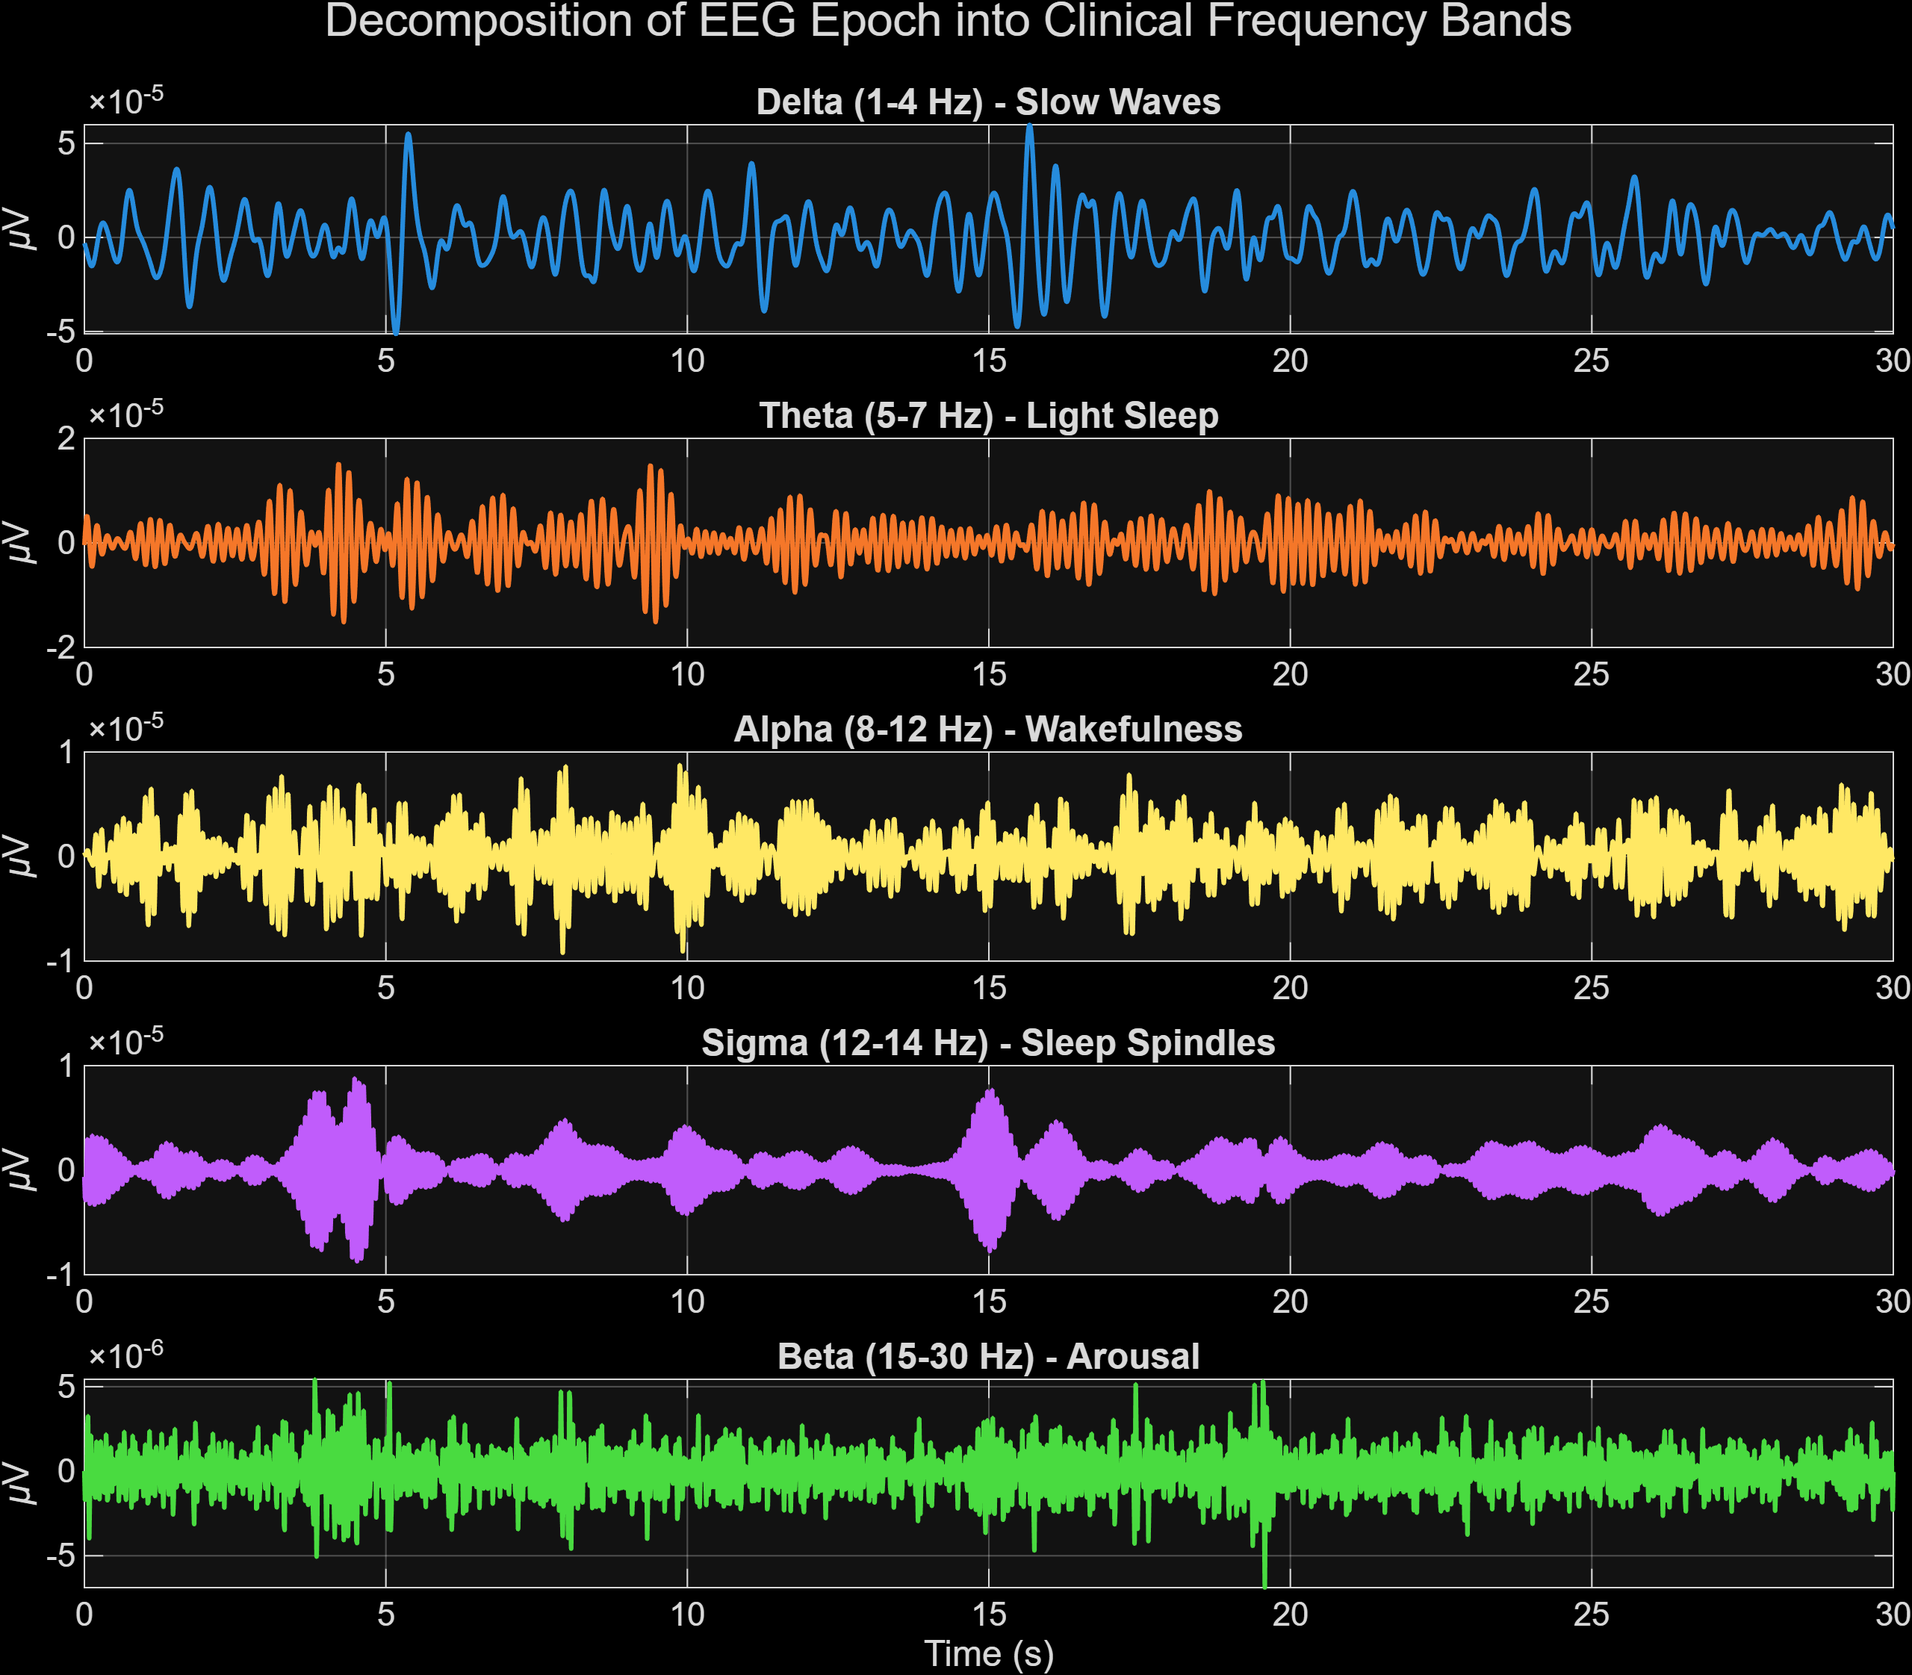
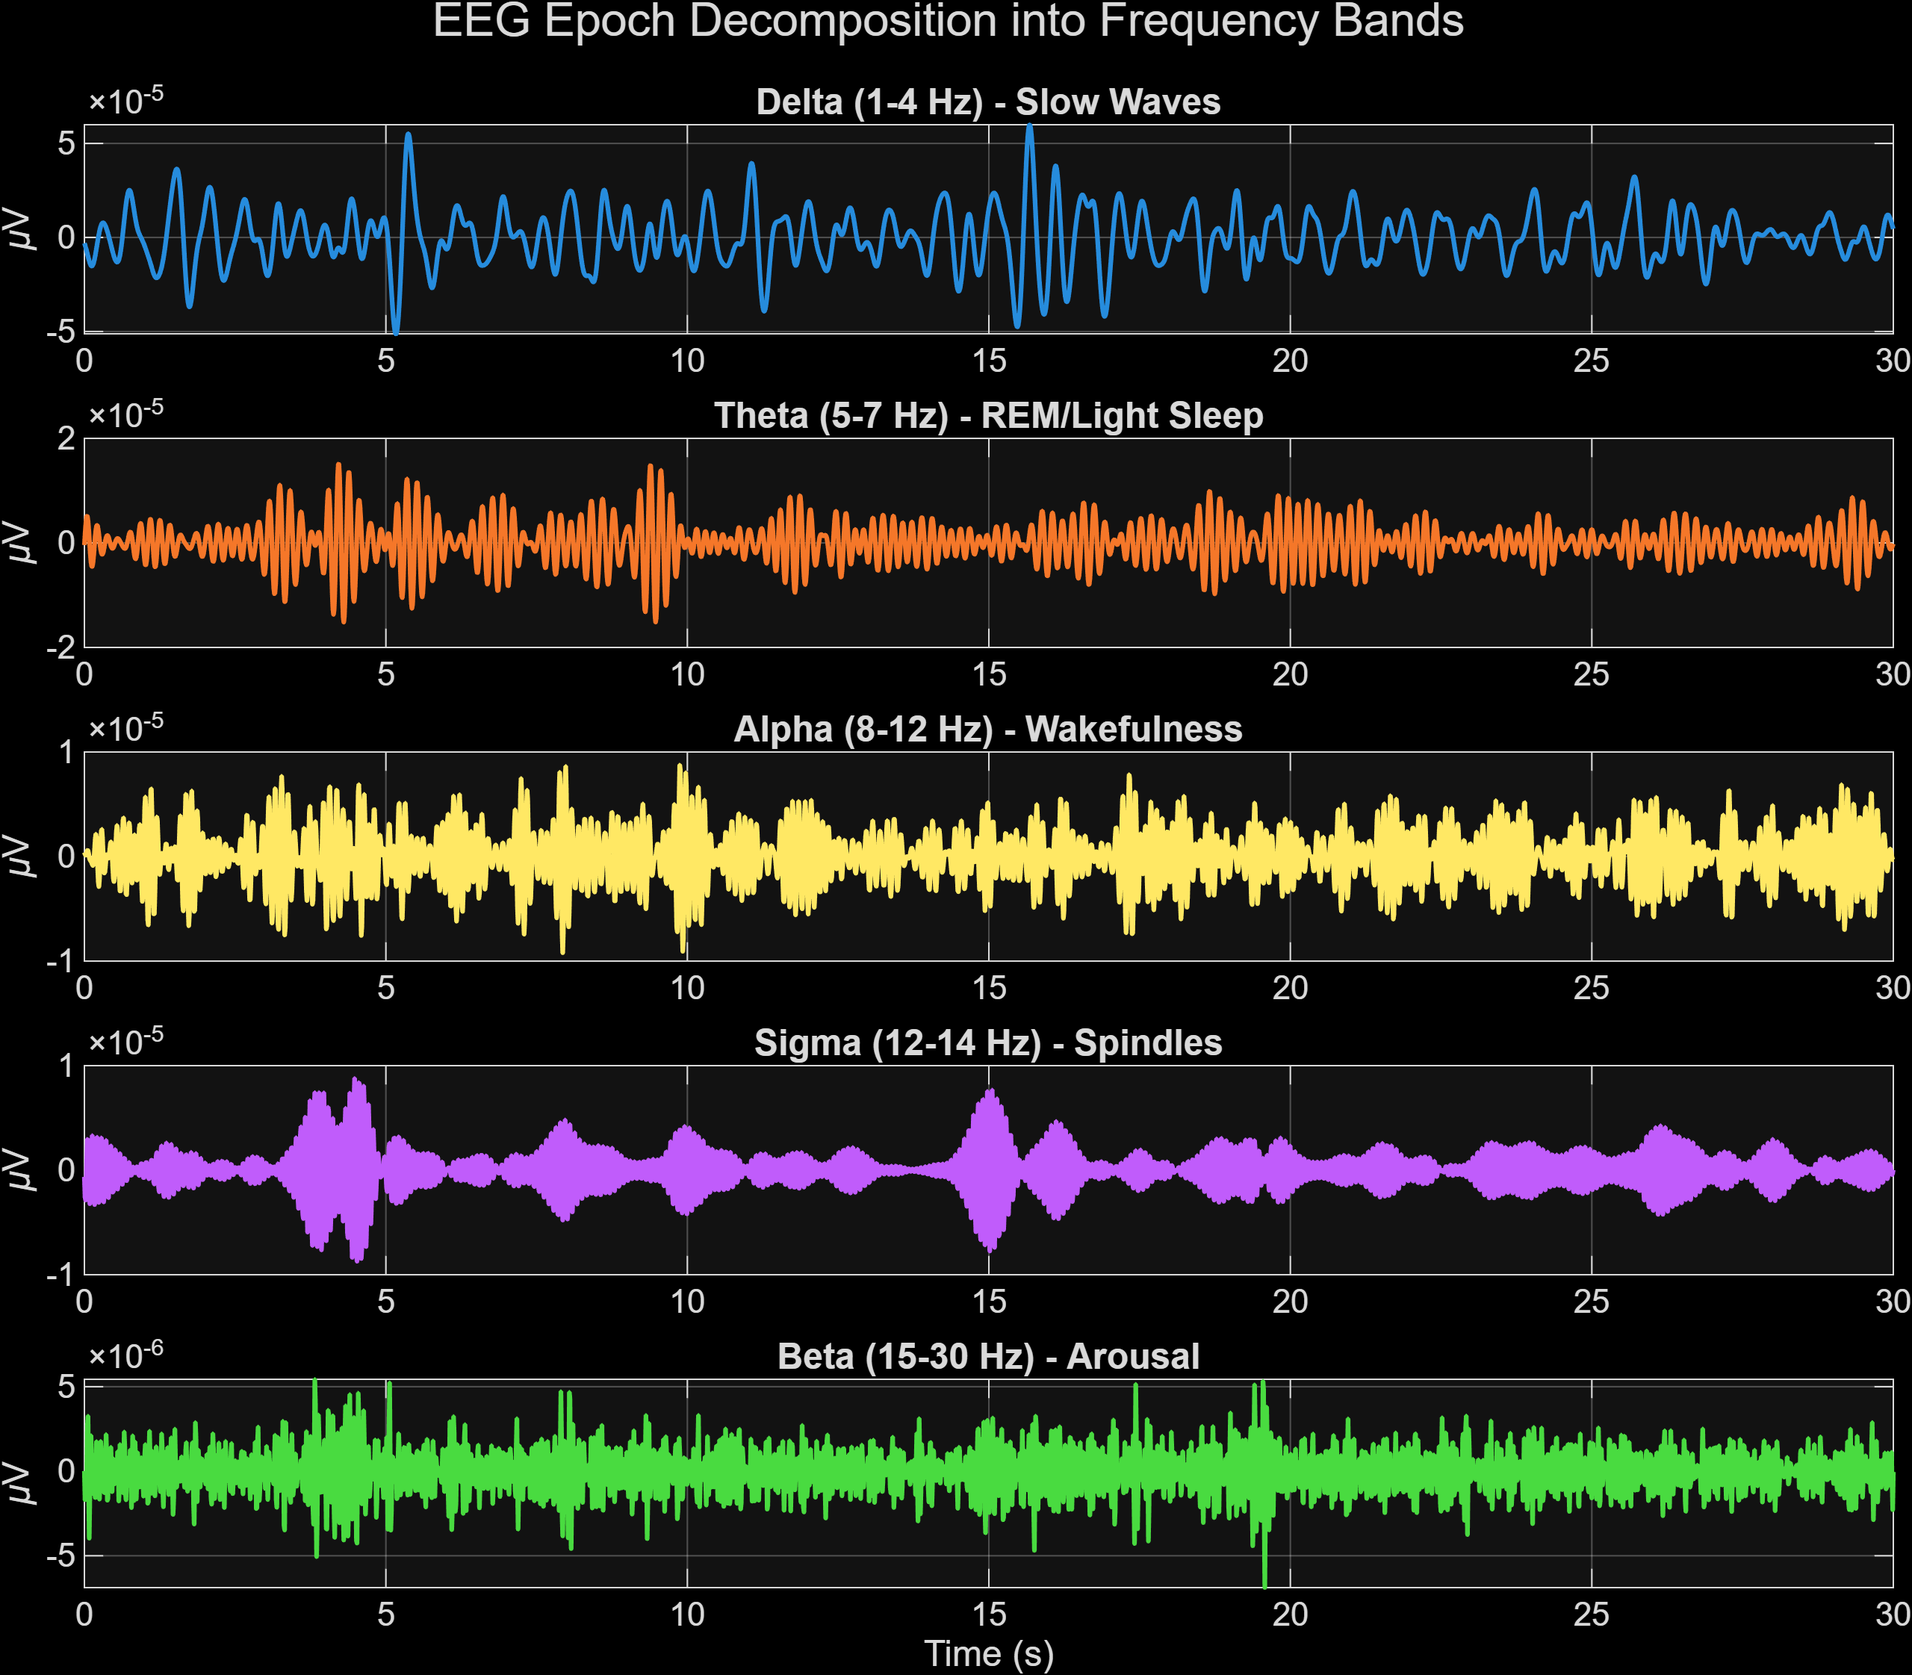
V 1.4 Updated code based on only signal features. ML related codes have been removed.

Changed region(s): [[0.1562, 0.0, 0.8125, 0.0312], [0.375, 0.593, 0.6562, 0.6554], [0.375, 0.2185, 0.6562, 0.2809]]

diff --git a/main2.m b/main2.m
@@ -1,0 +1,215 @@
+% =========================================================================
+% SLEEP STAGE CLASSIFICATION (UNSUPERVISED EDITION)
+% Based on Huang et al. (2014) & Dement et al. (1957)
+% Author : Mohammadreza Iravani
+% =========================================================================
+
+% 1. Load and Extract Data
+fprintf('Loading data.mat...\n');
+load('data.mat', 'dati');   
+fs = dati.fs;               
+raw_eeg = dati.eeg;         
+
+% 2. Epoching (30-second windows)
+epoch_len = 30 * fs;        
+num_epochs = floor(length(raw_eeg) / epoch_len);
+eeg_epochs = reshape(raw_eeg(1:num_epochs*epoch_len), epoch_len, num_epochs)';
+
+% 3. Feature Extraction (Based on Huang 2014 rules)
+num_features = 13;
+X = zeros(num_epochs, num_features);
+
+fprintf('Extracting 13 frequency-domain features for %d epochs...\n', num_epochs);
+for i = 1:num_epochs
+    X(i, :) = extract_huang_single_channel(eeg_epochs(i, :), fs);
+end
+
+% 4. Standardization
+mu = mean(X, 1);
+sigma = std(X, 0, 1);
+sigma(sigma == 0) = 1; 
+X_scaled = (X - mu) ./ sigma;
+
+% 5. Unsupervised Classification (K-Means Clustering)
+fprintf('Performing K-Means clustering (K=3: Wake, NREM, REM)...\n');
+rng(42); % For reproducibility
+num_clusters = 3;
+[cluster_idx, cluster_centers] = kmeans(X_scaled, num_clusters, 'Replicates', 10);
+
+% 6. Knowledge-Based Centroid Mapping
+% Feature Index mapping from extract_huang_single_channel:
+% 1,2: Lower Delta | 3,4: Delta | 5,6: Theta | 7,8: Alpha | 9,10: Sigma | 11,12: Beta | 13: Gamma
+delta_power = mean(cluster_centers(:, 1:4), 2);
+alpha_beta_power = mean(cluster_centers(:, [7, 8, 11, 12, 13]), 2);
+
+% Identify Wake cluster: Highest Alpha/Beta/Gamma
+[~, wake_cluster] = max(alpha_beta_power);
+
+% Out of the remaining two, identify NREM (Highest Delta) and REM
+remaining_clusters = setdiff(1:3, wake_cluster);
+if delta_power(remaining_clusters(1)) > delta_power(remaining_clusters(2))
+    nrem_cluster = remaining_clusters(1);
+    rem_cluster = remaining_clusters(2);
+else
+    nrem_cluster = remaining_clusters(2);
+    rem_cluster = remaining_clusters(1);
+end
+
+% Map clusters to numeric stages for plotting (1: NREM, 2: REM, 3: W)
+numeric_stages = zeros(num_epochs, 1);
+predicted_labels = cell(num_epochs, 1);
+for i = 1:num_epochs
+    if cluster_idx(i) == wake_cluster
+        numeric_stages(i) = 3;
+        predicted_labels{i} = 'W';
+    elseif cluster_idx(i) == rem_cluster
+        numeric_stages(i) = 2;
+        predicted_labels{i} = 'REM';
+    else
+        numeric_stages(i) = 1;
+        predicted_labels{i} = 'NREM';
+    end
+end
+
+% =========================================================================
+% PRESENTATION VISUALIZATIONS
+% =========================================================================
+set(0, 'DefaultAxesFontSize', 12, 'DefaultLineLineWidth', 1.5);
+time_hrs = (1:num_epochs) * 30 / 3600; 
+
+% FIGURE 1: Raw vs Preprocessed Signal
+fig1 = figure('Name', 'Fig 1: Signal Preprocessing', 'Position', [50, 100, 1000, 500]);
+sample_epoch = eeg_epochs(40, :); 
+[b, a] = butter(4, [0.5, 49] / (fs / 2), 'bandpass');
+filtered_epoch = filtfilt(b, a, sample_epoch);
+t_axis = linspace(0, 30, epoch_len);
+
+subplot(2,1,1);
+plot(t_axis, sample_epoch, 'Color', [0.6 0.6 0.6]);
+title('Raw 30-Second Forehead EEG Epoch');
+xlabel('Time (s)'); ylabel('Amplitude (\muV)'); grid on;
+
+subplot(2,1,2);
+plot(t_axis, filtered_epoch, 'Color', [0 0.4470 0.7410]);
+title('Bandpass Filtered (0.5 - 49 Hz)');
+xlabel('Time (s)'); ylabel('Amplitude (\muV)'); grid on;
+
+% FIGURE 2: Clinical Rhythm Decomposition
+fig2 = figure('Name', 'Fig 2: Rhythm Decomposition', 'Position', [100, 100, 1000, 800]);
+bands = {[1 4], [5 7], [8 12], [12 14], [15 30]};
+band_names = {'Delta (1-4 Hz) - Slow Waves', 'Theta (5-7 Hz) - REM/Light Sleep', ...
+              'Alpha (8-12 Hz) - Wakefulness', 'Sigma (12-14 Hz) - Spindles', ...
+              'Beta (15-30 Hz) - Arousal'};
+colors = lines(5);
+for k = 1:5
+    [b_band, a_band] = butter(2, bands{k} / (fs / 2), 'bandpass');
+    band_sig = filtfilt(b_band, a_band, filtered_epoch);
+    subplot(5, 1, k);
+    plot(t_axis, band_sig, 'Color', colors(k,:));
+    title(band_names{k});
+    ylabel('\muV'); 
+    if k == 5; xlabel('Time (s)'); end
+    grid on;
+end
+sgtitle('EEG Epoch Decomposition into Frequency Bands');
+
+% FIGURE 3: Short-Time Fourier Transform (STFT)
+fig3 = figure('Name', 'Fig 3: STFT', 'Position', [150, 150, 800, 400]);
+window = hamming(fs); noverlap = fs / 2; nfft = fs;
+[S, F, T, P] = spectrogram(filtered_epoch, window, noverlap, nfft, fs);
+surf(T, F, 10*log10(P), 'EdgeColor', 'none');
+axis xy; axis tight; colormap(jet); view(0,90);
+c = colorbar; c.Label.String = 'Power (dB/Hz)';
+title('STFT: Power Spectral Density');
+xlabel('Time (s)'); ylabel('Frequency (Hz)'); ylim([0 40]); 
+
+% FIGURE 4: Feature Space Separability (PCA & K-Means Clusters)
+fig4 = figure('Name', 'Fig 4: PCA Clustering', 'Position', [200, 200, 800, 600]);
+[~, score, ~] = pca(X_scaled);
+gscatter(score(:,1), score(:,2), predicted_labels, 'rgb', '...', 20);
+title('PCA: Unsupervised Sleep Stage Clustering (K-Means)');
+xlabel('Principal Component 1'); ylabel('Principal Component 2');
+legend('Location', 'best'); grid on;
+
+% FIGURE 5: Full Night Hypnogram
+fig5 = figure('Name', 'Fig 5: Full Hypnogram', 'Position', [250, 250, 1000, 400]);
+stairs(time_hrs, numeric_stages, 'LineWidth', 1.5, 'Color', [0.0 0.3 0.6]); 
+set(gca, 'YTick', 1:3, 'YTickLabel', {'NREM', 'REM', 'Wake'});
+ylim([0.5 3.5]); xlim([0 max(time_hrs)]);
+title('Automated Hypnogram via Unsupervised Clustering');
+xlabel('Time in Bed (Hours)'); grid on;
+
+% FIGURE 6: Zoomed Hypnogram 
+fig6 = figure('Name', 'Fig 6: Zoomed Hypnogram', 'Position', [300, 300, 800, 400]);
+stairs(time_hrs, numeric_stages, 'LineWidth', 2.0, 'Color', [0.8500 0.3250 0.0980]);
+set(gca, 'YTick', 1:3, 'YTickLabel', {'NREM', 'REM', 'Wake'});
+ylim([0.5 3.5]); xlim([0 2.0]); 
+title('Hypnogram Detail (0 to 120 Mins)');
+xlabel('Time in Bed (Hours)'); grid on;
+
+% =========================================================================
+% FIGURE EXPORT TO PNG
+% =========================================================================
+fprintf('Saving high-resolution figures to current folder...\n');
+pause(1); 
+exportgraphics(fig1, 'Fig1_Preprocessing.png', 'Resolution', 300);
+exportgraphics(fig2, 'Fig2_RhythmDecomposition.png', 'Resolution', 300);
+exportgraphics(fig3, 'Fig3_STFT_Spectrogram.png', 'Resolution', 300);
+exportgraphics(fig4, 'Fig4_PCA_Clustering.png', 'Resolution', 300);
+exportgraphics(fig5, 'Fig5_FullHypnogram.png', 'Resolution', 300);
+exportgraphics(fig6, 'Fig6_ZoomedHypnogram.png', 'Resolution', 300);
+fprintf('All images saved successfully as PNGs!\n');
+
+% =========================================================================
+% LOCAL FUNCTIONS
+% =========================================================================
+function features = extract_huang_single_channel(epoch_data, fs)
+    [b, a] = butter(4, [0.5, 49] / (fs / 2), 'bandpass');
+    filtered_sig = filtfilt(b, a, epoch_data);
+    
+    window = hamming(fs); noverlap = fs / 2; nfft = fs; 
+    [S, F, ~] = spectrogram(filtered_sig, window, noverlap, nfft, fs);
+    Sxx = abs(S).^2;
+    Sxx_norm = Sxx ./ sum(Sxx, 1);
+    
+    b_ldelta = (F >= 0.5 & F <= 2);
+    b_delta  = (F >= 1   & F <= 4);
+    b_theta  = (F >= 5   & F <= 7);
+    b_alpha  = (F >= 8   & F <= 12);
+    b_sigma  = (F >= 12  & F <= 14);
+    b_beta   = (F >= 15  & F <= 30);
+    b_gamma  = (F >= 30  & F <= 49); 
+    
+    p_ldelta = sum(Sxx_norm(b_ldelta, :), 1);
+    p_delta  = sum(Sxx_norm(b_delta, :), 1);
+    p_theta  = sum(Sxx_norm(b_theta, :), 1);
+    p_alpha  = sum(Sxx_norm(b_alpha, :), 1);
+    p_sigma  = sum(Sxx_norm(b_sigma, :), 1);
+    p_beta   = sum(Sxx_norm(b_beta, :), 1);
+    p_gamma  = sum(Sxx_norm(b_gamma, :), 1);
+    
+    num_seg = 59;
+    top_80 = floor(0.8 * num_seg); 
+    top_50 = floor(0.5 * num_seg); 
+    
+    p_ldelta_sort = sort(p_ldelta);
+    p_theta_sort  = sort(p_theta);
+    p_alpha_sort  = sort(p_alpha);
+    p_beta_sort   = sort(p_beta);
+    
+    features = [
+        mean(p_ldelta_sort(end-top_80+1:end)),
+        mean(p_ldelta_sort(1:top_80)),
+        max(p_delta),
+        (sum(p_delta) - max(p_delta)) / (num_seg - 1),
+        mean(p_theta_sort(end-top_50+1:end)),
+        mean(p_theta_sort(1:top_50)),
+        mean(p_alpha_sort(end-top_50+1:end)),
+        mean(p_alpha_sort(1:top_50)),
+        max(p_sigma),
+        (sum(p_sigma) - max(p_sigma)) / (num_seg - 1),
+        mean(p_beta_sort(end-top_50+1:end)),
+        mean(p_beta_sort(1:top_50)),
+        mean(p_gamma)
+    ];
+end

diff --git a/main3.m b/main3.m
@@ -1,0 +1,149 @@
+clearvars; close all; clc;
+
+%% 1. Load and Preprocess Data
+fprintf('Loading data.mat...\n');
+load('data.mat', 'dati');   
+Fs = dati.fs;               
+EEG = dati.eeg; 
+
+% Store a copy of the raw signal for plotting
+EEG_raw = EEG;
+
+% Detrend the signal to remove DC offset
+EEG = detrend(EEG);
+
+% --- Design and Apply Bandpass Filter (0.5 to 30 Hz) ---
+low_cutoff = 0.5;
+high_cutoff = 30;
+bp_filter = designfilt('bandpassiir', 'FilterOrder', 4, ...
+    'HalfPowerFrequency1', low_cutoff, 'HalfPowerFrequency2', high_cutoff, ...
+    'DesignMethod', 'butter', 'SampleRate', Fs);
+EEG = filtfilt(bp_filter, EEG);
+
+%% 2. Feature Extraction (Based on Huang et al., 2014 via STFT)
+% Standard AASM epoch size
+window_length = Fs * 30;              
+shift = window_length; 
+
+% STFT parameters defined in the paper: 
+% 1-second Hamming window overlapped with 0.5 seconds
+segment_length = Fs * 1;    
+noverlap = Fs * 0.5;        
+nfft = 2048;                
+
+N = length(EEG);
+i = 1;  
+counter = 1;
+
+while (i + window_length - 1) < N
+    EEG_epoch = detrend(EEG(i:i+window_length-1));
+    
+    % Compute Short-Time Fourier Transform (STFT) for the 30s epoch
+    % This generates 59 segments per epoch as described in the paper
+    [PSD_matrix, f] = spectrogram(EEG_epoch, hamming(segment_length), noverlap, nfft, Fs, 'yaxis');
+    
+    % Convert to absolute Power Spectral Density (PSD)
+    PSD_matrix = abs(PSD_matrix).^2;
+    
+    % Normalization: Divide each frequency bin by the total sum in its segment
+    total_power_per_segment = sum(PSD_matrix, 1);
+    Normalized_PSD = bsxfun(@rdivide, PSD_matrix, total_power_per_segment);
+    
+    % Exact frequency bands according to AASM and Huang et al., 2014
+    sw_idx    = (f >= 0.5 & f <= 2);  % Slow Wave Activity for N3
+    theta_idx = (f >= 5   & f <= 7);  % Theta Rhythm for N1/N2 background
+    alpha_idx = (f >= 8   & f <= 12); % Alpha Rhythm for Wake
+    sigma_idx = (f >= 12  & f <= 14); % Sleep Spindle for N2
+    
+    % Calculate relative power in specific bands across the 59 segments
+    SW_Power_Segments    = sum(Normalized_PSD(sw_idx, :), 1);
+    Theta_Power_Segments = sum(Normalized_PSD(theta_idx, :), 1);
+    Alpha_Power_Segments = sum(Normalized_PSD(alpha_idx, :), 1);
+    Sigma_Power_Segments = sum(Normalized_PSD(sigma_idx, :), 1);
+    
+    % Epoch Features: Capturing temporal properties of manual scoring rules
+    SlowWave_Power(counter) = mean(SW_Power_Segments);
+    Theta_Power(counter)    = mean(Theta_Power_Segments);
+    Alpha_Power(counter)    = mean(Alpha_Power_Segments);
+    % Since spindles occur suddenly (0.5 - 1.5s), maximum power among 59 segments is extracted
+    Sigma_Power(counter)    = max(Sigma_Power_Segments); 
+    
+    time_min(counter) = (i + window_length/2) / (Fs * 60);
+    i = i + shift;
+    counter = counter + 1;
+end
+
+%% 3. Threshold-Based Stage Detection (Translating AASM Rules)
+Detected_Stage = strings(1, length(time_min));
+
+% Adaptive thresholds based on subject's overall physiological baseline
+thresh_alpha = mean(Alpha_Power) + std(Alpha_Power);
+thresh_sw    = mean(SlowWave_Power) + 0.5 * std(SlowWave_Power);
+thresh_sigma = mean(Sigma_Power) + std(Sigma_Power);
+
+for k = 1:length(time_min)
+    % AASM Rule: >50% alpha rhythm -> Wake
+    if Alpha_Power(k) > thresh_alpha
+        Detected_Stage(k) = "Wake";
+        
+    % AASM Rule: >20% high amplitude slow wave -> N3
+    elseif SlowWave_Power(k) > thresh_sw
+        Detected_Stage(k) = "N3";
+        
+    % AASM Rule: Sleep spindle (12-14Hz) occurrence -> N2
+    elseif Sigma_Power(k) > thresh_sigma
+        Detected_Stage(k) = "N2";
+        
+    % AASM Rule: Alpha is attenuated and replaced by Theta -> N1 / REM
+    else
+        Detected_Stage(k) = "N1 / REM";
+    end
+end
+
+%% 4. Generate and Save Presentation Figures
+fprintf('Generating and saving figures...\n');
+
+% --- Figure 1: Raw vs Filtered Signal ---
+fig1 = figure('Name', 'Preprocessing', 'NumberTitle', 'off');
+t_30s = (0:window_length-1) / Fs;
+subplot(2,1,1); plot(t_30s, EEG_raw(1:window_length), 'Color', [0.6 0.6 0.6]);
+title('Raw EEG Signal (First 30 Seconds Epoch)'); ylabel('Amplitude'); xlabel('Time [s]'); grid on;
+subplot(2,1,2); plot(t_30s, EEG(1:window_length), 'Color', 'b');
+title('Filtered EEG Signal (0.5 - 30 Hz Bandpass)'); ylabel('Amplitude'); xlabel('Time [s]'); grid on;
+% Save Figure 1
+saveas(fig1, 'FigX_1_1.png');
+
+% --- Figure 2: STFT Spectrogram ---
+fig2 = figure('Name', 'Spectrogram', 'NumberTitle', 'off');
+spectrogram(EEG, hamming(segment_length), noverlap, nfft, Fs, 'yaxis');
+ylim([0 30]); title('STFT Spectrogram (Frequency Content Over Time)'); colormap jet;
+% Save Figure 2
+saveas(fig2, 'FigX_1_2.png');
+
+% --- Figure 3: Extracted Features Based on Huang et al. 2014 ---
+fig3 = figure('Name', 'Extracted Features', 'NumberTitle', 'off');
+ax(1) = subplot(4,1,1); plot(time_min, SlowWave_Power, 'LineWidth', 1.5); ylabel('Slow Wave'); title('N3 Indicator (0.5 - 2 Hz)'); grid on;
+ax(2) = subplot(4,1,2); plot(time_min, Alpha_Power, 'LineWidth', 1.5); ylabel('Alpha'); title('Wake Indicator (8 - 12 Hz)'); grid on;
+ax(3) = subplot(4,1,3); plot(time_min, Sigma_Power, 'LineWidth', 1.5); ylabel('Sigma'); title('N2 Indicator (12 - 14 Hz)'); grid on;
+ax(4) = subplot(4,1,4); plot(time_min, Theta_Power, 'LineWidth', 1.5, 'Color', 'r'); xlabel('Time [minutes]'); ylabel('Theta'); title('N1 Background (5 - 7 Hz)'); grid on;
+linkaxes(ax, 'x');
+% Save Figure 3
+saveas(fig3, 'FigX_1_3.png');
+
+% --- Figure 4: Hypnogram (Output) ---
+fig4 = figure('Name', 'Hypnogram', 'NumberTitle', 'off');
+stage_num = zeros(1, length(Detected_Stage));
+stage_num(Detected_Stage == "Wake") = 0;
+stage_num(Detected_Stage == "N1 / REM") = -1;
+stage_num(Detected_Stage == "N2") = -2;
+stage_num(Detected_Stage == "N3") = -3;
+
+% Plot Hypnogram in Blue ('b')
+stairs(time_min, stage_num, 'LineWidth', 2, 'Color', 'b');
+yticks([-3, -2, -1, 0]); yticklabels({'N3 (Deep)', 'N2 (Light)', 'N1 / REM', 'Wake'});
+ylim([-3.5 0.5]); xlabel('Time [minutes]'); ylabel('Sleep Stage');
+title('Predicted Hypnogram Based on AASM Rules'); grid on;
+% Save Figure 4
+saveas(fig4, 'FigX_1_4.png');
+
+fprintf('All figures have been saved successfully!\n');
